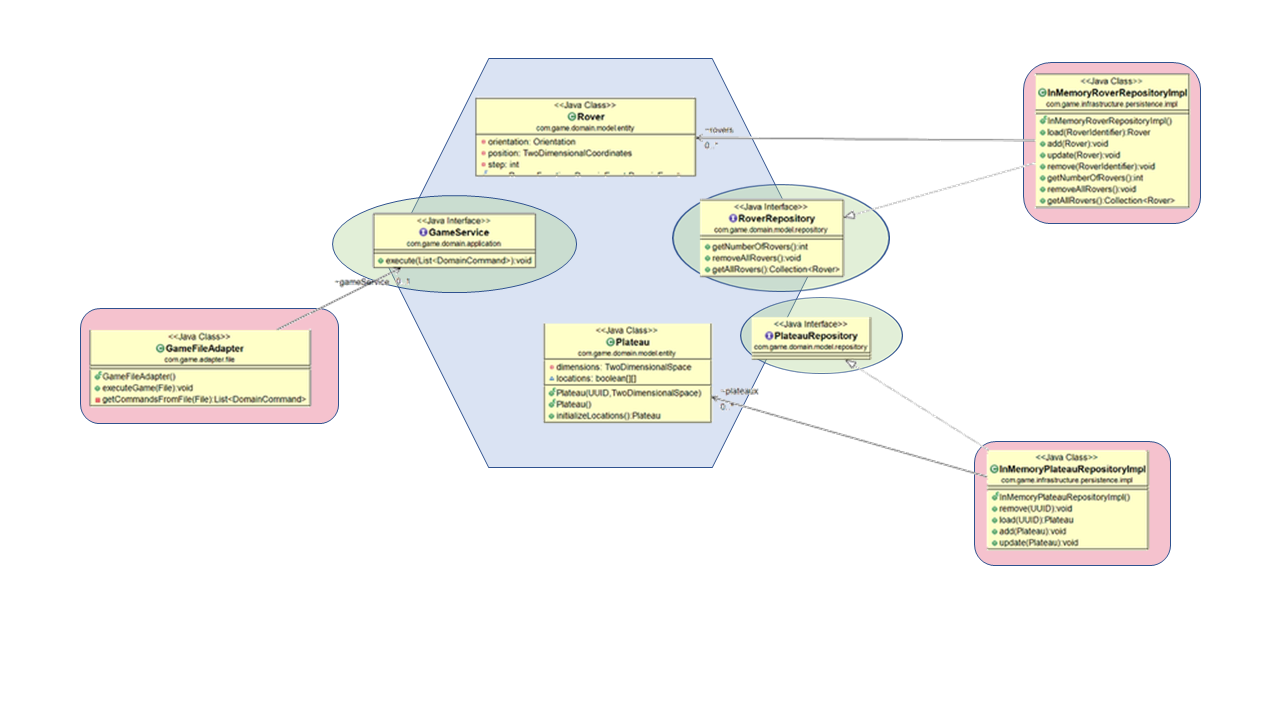
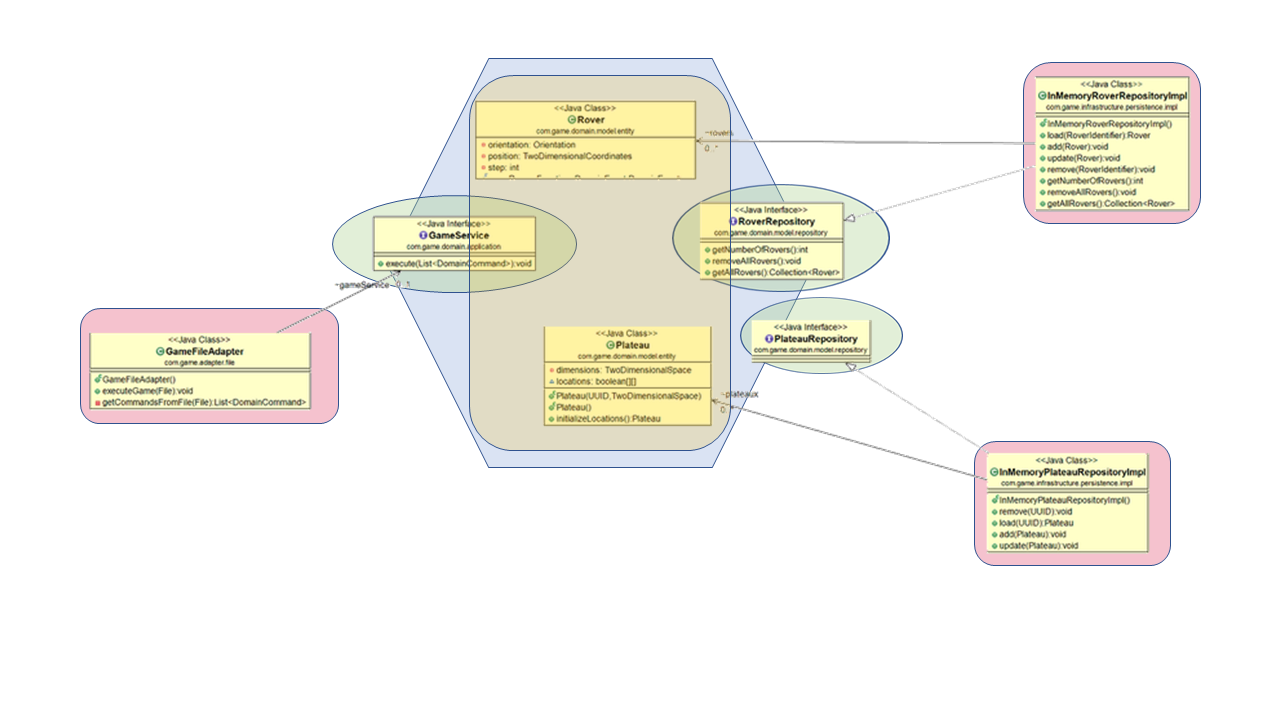
Write Hexagonal architecture section in README.md

diff --git a/README.md b/README.md
@@ -26,10 +26,35 @@ In this exercise, we would like to present a step-by-step process driven by the 
 
 ### Domain Driven Design 
 We start by focusing on our domain (entities) and services, which both represent the very core of our application.
-If you go through our commits on the flow, you will notice that designing and properly testing our entities is our very first concern.
+If you go through our commits one after the other, you will notice that designing and properly testing our entities is our very first concern.
 
 ### Hexagonal Architecture
 Once our domain is built, we isolate it properly from the in and out systems by the so-called adapters and ports (interfaces).
+
+The principles of the Hexagonal Architecture have been presented by its author Alistair CockBurn in his original
+paper, [https://alistair.cockburn.us/hexagonal-architecture/](https://alistair.cockburn.us/hexagonal-architecture/).
+
+The main goal of this architecture is to isolate as much as possible the domain model. Technically the model is isolated from the outside world by the so called **ports** and **adapters**.
+
+On the left side of the hexagon, you can find the **primary adapters** which are used by the external clients who want to interact with the application. These adapters should not depend directly on the model details but only to a **port**, some kind of **facade interface** which hides the model implementation details to the clients.
+
+In our case, the **in-adapter** (another way to design a primary adapter) is represented by the file adapter
+[GameFileAdapter](src/main/java/com/game/adapter/file/GameFileAdapter.java) which interacts with the rover application by its port interface [GameService](src/main/java/com/game/domain/application/GameService.java).
+
+On the right side of the hexagon, the **secondary ports** and **secondary adapters** define the way the application itself communicates with the outside world. It could be by example how the application is sending events to a middleware or how it is storing its data in a persistent repository.
+
+In this context, the application should NOT depend on those external systems but in contrast exposes some ports or interfaces (the secondary or out ports) to be implemented by the adapters.
+
+In our case, the rover application will store its <code>Rover</code> and <code>Plateau</code> entities respectively via the [InMemoryRoverRepositoryImpl](src/main/java/com/game/infrastructure/persistence/impl/InMemoryRoverRepositoryImpl.java) and the [InMemoryPlateauRepositoryImpl.java](src/main/java/com/game/infrastructure/persistence/impl/InMemoryPlateauRepositoryImpl.java) but does NOT depend on them directly.
+
+ On the other hand, the application exposes two interfaces or ports [RoverRepository](src/main/java/com/game/domain/model/repository/RoverRepository.java) and [PlateauRepository](src/main/java/com/game/domain/model/repository/PlateauRepository.java)  which are to be implemented by the adapters.
+ 
+ On the diagram, it is important that **all the arrows are pointing into the direction of the hexagon**  and that none is pointing out from the hexagon, which would mean an undesired dependency from the application to the external world.
+ 
+ Finally, please note that the out-adapters <code>InMemoryRoverRepositoryImpl</code> and <code>InMemoryPlateauRepositoryImpl</code> do not belong to the domain and reside in the **infrastructure** package.
+
+
+<img src="src/main/resources/Rover_hexagonal.png" />
 
 ### Test driven
 Our goal is to propose a final project covered at least at 90% by unit testing.
